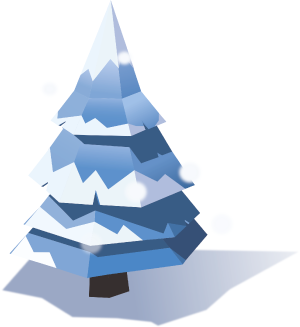
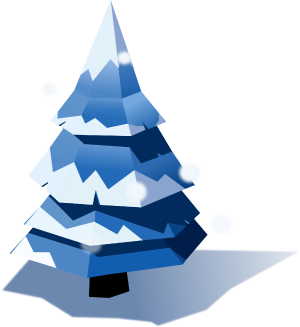
some final changes to the images

diff --git a/reis1.html b/reis1.html
@@ -40,7 +40,7 @@
         <li class="nav__item"><a href="index.html">home</a></li>
         <li class="nav__item" id="active"><a href="#">Skireis januari</a></li>
         <li class="nav__item"><a href="reis2.html">Skireis maart</a></li>
-        <li class="nav__item"><a href="boeken.html">Reis boeken</a></li>
+        <li class="nav__item"><a href="#">Reis boeken</a></li>
         <li class="nav__item"><a href="#">Reiservaringen</a></li>
         <li class="nav__item"><a href="#">Contact</a></li>
       </ul>
@@ -306,7 +306,7 @@
            </div>
 
            <div class="arrangementbeeld">
-            <img src="images/kerstboomklein-gr.png" alt="kerstboom">
+            <img src="images/kerstboomklein.png" alt="kerstboom">
 
            </div>
 
@@ -486,7 +486,7 @@
        </div>
 
        <div class="beeld1">
-        <img src="images/kerstboom.png" alt="kerstboom">
+         <img src="images/kerstboomklein2.png" alt="kerstboom">
        </div>
 
      </div>

diff --git a/reis2.html b/reis2.html
@@ -40,7 +40,7 @@
         <li class="nav__item"><a href="index.html">home</a></li>
         <li class="nav__item"><a href="reis1.html">Skireis januari</a></li>
         <li class="nav__item" id="active"><a href="#">Skireis maart</a></li>
-        <li class="nav__item"><a href="boeken.html">Reis boeken</a></li>
+        <li class="nav__item"><a href="#">Reis boeken</a></li>
         <li class="nav__item"><a href="#">Reiservaringen</a></li>
         <li class="nav__item"><a href="#">Contact</a></li>
       </ul>
@@ -484,7 +484,8 @@
        </div>
 
        <div class="beeld1">
-        <img src="images/kerstboom.png" alt="kerstboom">
+        <img src="images/kerstboomklein2.png" alt="kerstboom">
+
        </div>
 
      </div>

diff --git a/boeken.html b/boeken.html
@@ -38,7 +38,7 @@
       <ul class="nav__list">
         <li class="nav__item"><a href="index.html">home</a></li>
       	<li class="nav__item"><a href="reis1.html">Skireis januari</a></li>
-      	<li class="nav__item"><a href="#">Skireis maart</a></li>
+      	<li class="nav__item"><a href="reis2.html">Skireis maart</a></li>
         <li class="nav__item" id="active"><a href="boeken.html">Reis boeken</a></li>
         <li class="nav__item"><a href="#">Reiservaringen</a></li>
         <li class="nav__item"><a href="#">Contact</a></li>

diff --git a/index.html b/index.html
@@ -39,7 +39,7 @@
         <li class="nav__item" id="active"><a href="#">home</a></li>
       	<li class="nav__item"><a href="reis1.html">Skireis januari</a></li>
       	<li class="nav__item"><a href="reis2.html">Skireis maart</a></li>
-        <li class="nav__item"><a href="boeken.html">Reis boeken</a></li>
+        <li class="nav__item"><a href="#">Reis boeken</a></li>
         <li class="nav__item"><a href="#">Reiservaringen</a></li>
         <li class="nav__item"><a href="#">Contact</a></li>
       </ul>

diff --git a/css/responsive.css b/css/responsive.css
@@ -577,12 +577,12 @@
 
   .reis__hoofdkop {
     order: 0;
-    width: 70%;
+    width: 60%;
   }
 
   .beeldBoven {
     order: 1;
-    width: 29%;
+    width: 39%;
     padding-top: 10px;
 
 
